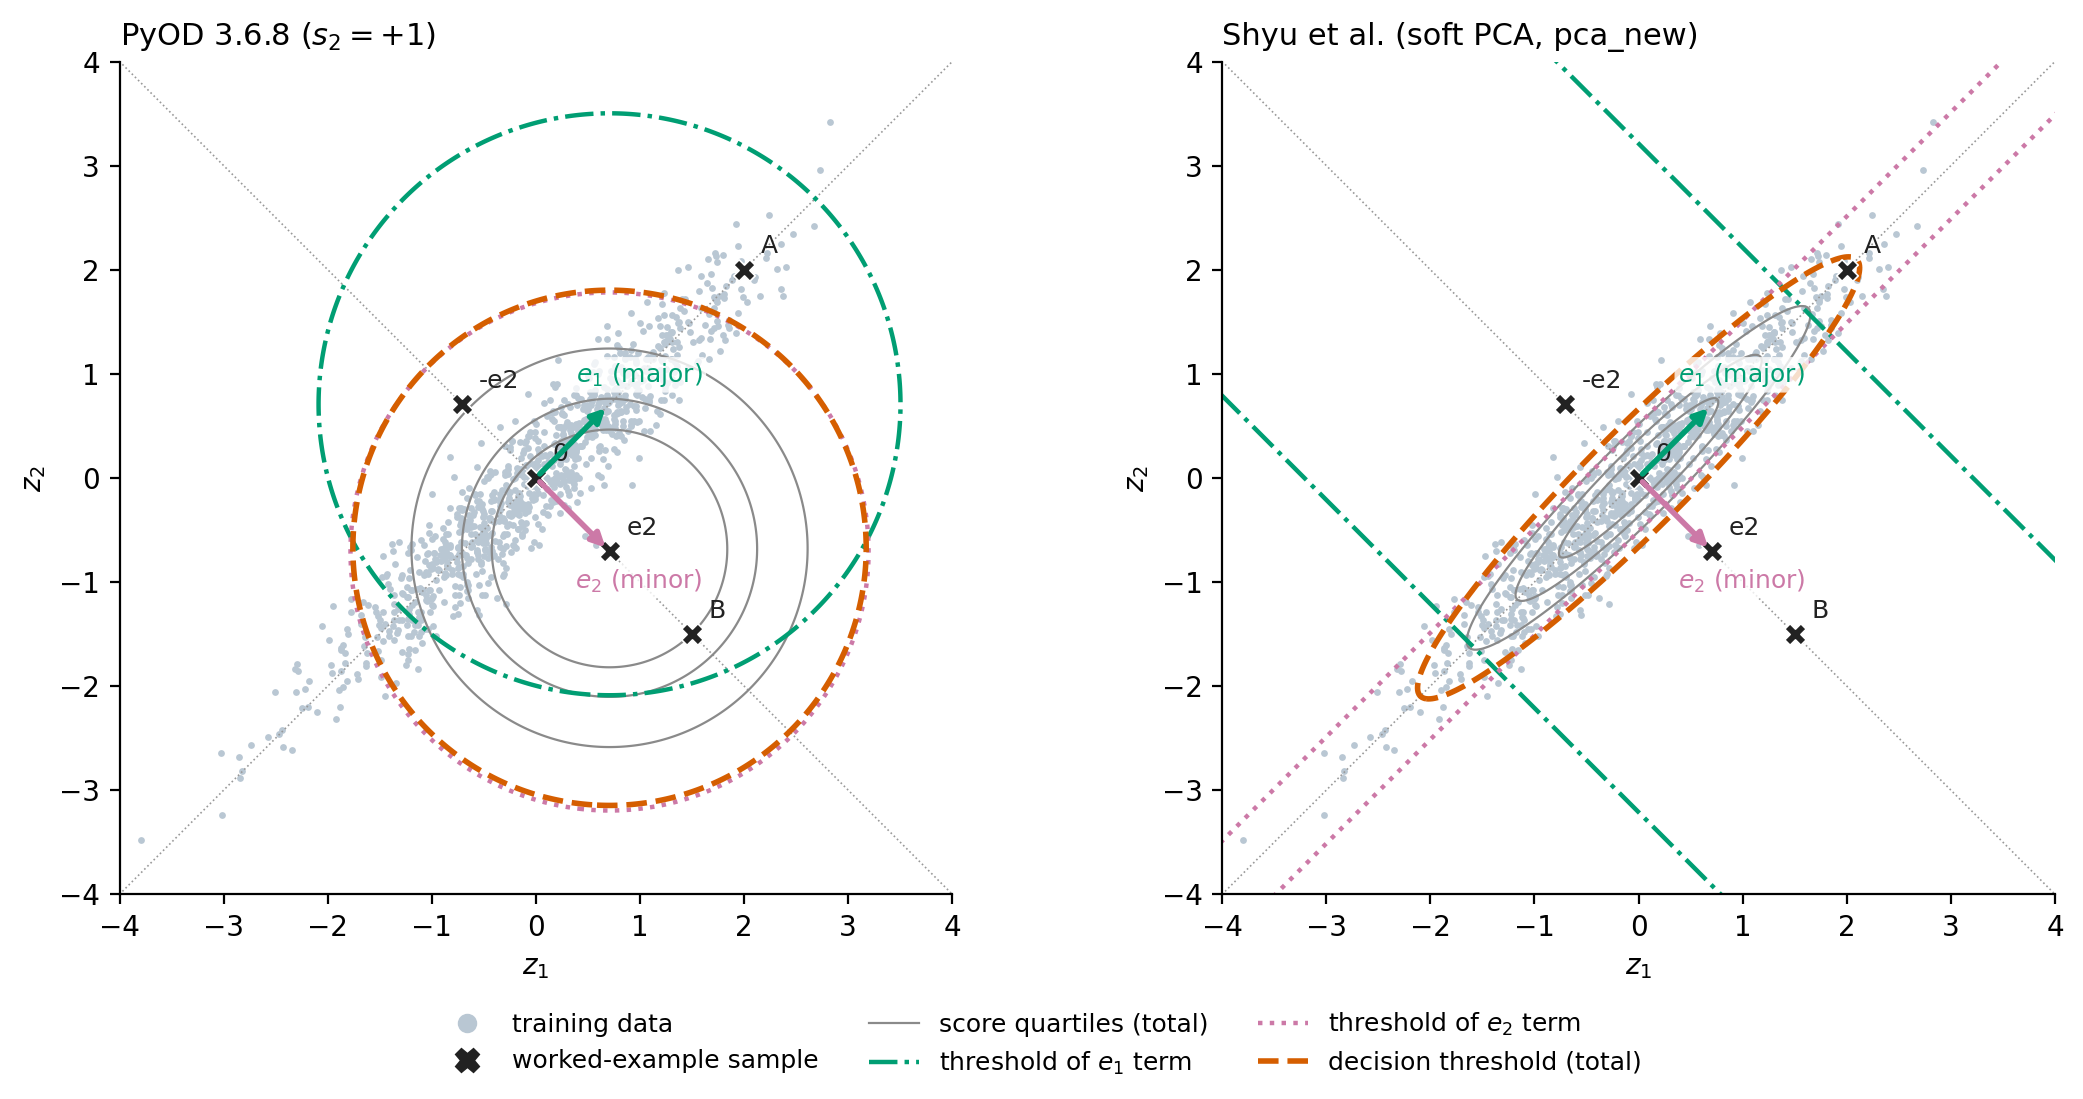
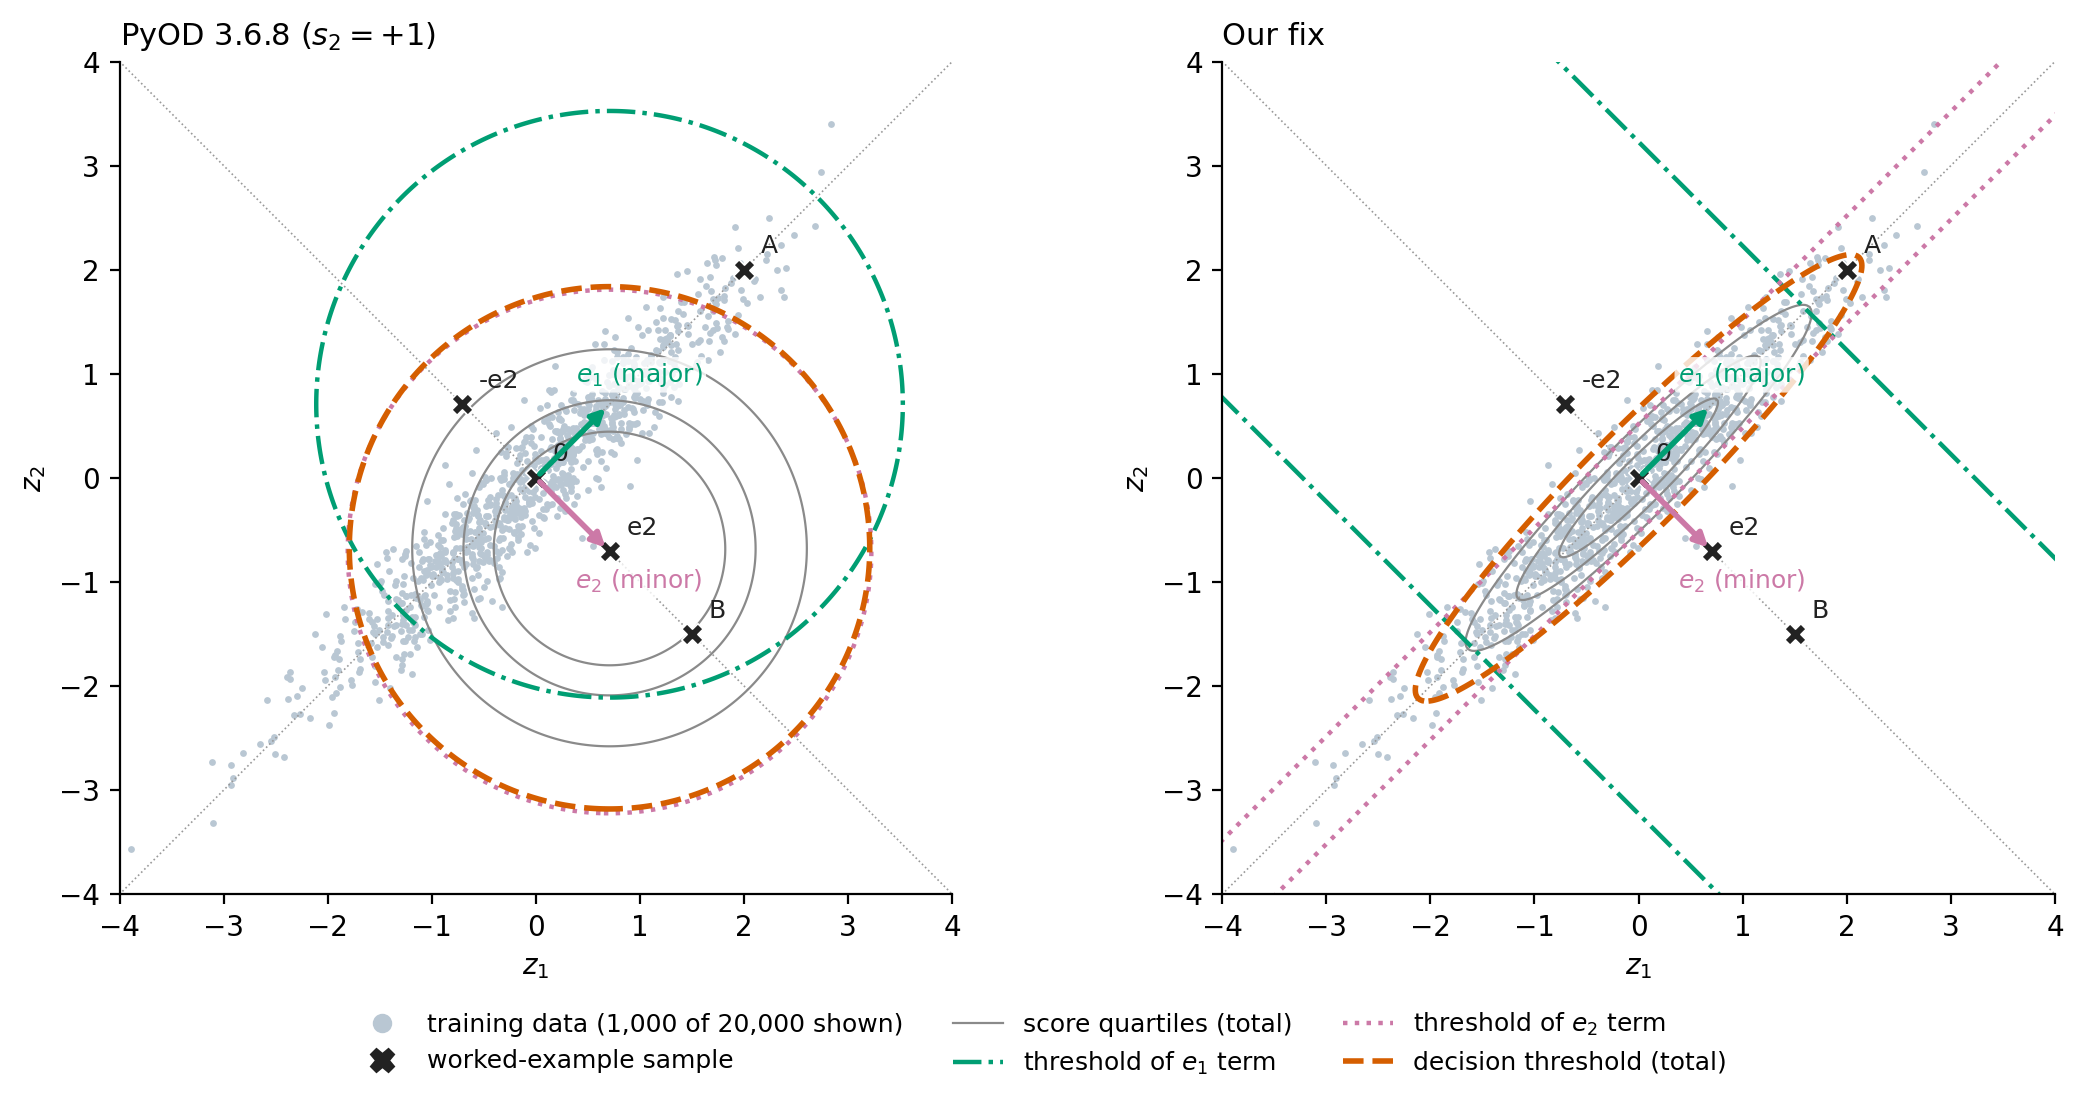
uses correct heading

diff --git a/_posts/2027-04-30-pca-pyod-v2.md b/_posts/2027-04-30-pca-pyod-v2.md
@@ -111,9 +111,9 @@ To see what this score does in practice, we first apply it to a small example.
 
 ### A short example
 
-Consider $$p = 2$$ standardized features with correlation $$\rho = 0.95$$, so that $$\lambda_1 = 1.95$$, $$\mathbf{e}_1 = \tfrac{1}{\sqrt 2}(1, 1)$$ and $$\lambda_2 = 0.05$$, $$\mathbf{e}_2 = \tfrac{1}{\sqrt 2}(1, -1)$$. In the PCC, $$q = r = 1$$. We score a few observations with the PCC and with PyOD under both signs of $$\mathbf{e}_2$$:
+Consider $$p = 2$$ standardized features with correlation $$\rho = 0.95$$, so that $$\lambda_1 = 1.95$$, $$\mathbf{e}_1 = \tfrac{1}{\sqrt 2}(1, 1)$$ and $$\lambda_2 = 0.05$$, $$\mathbf{e}_2 = \tfrac{1}{\sqrt 2}(1, -1)$$. In the PCC, $$q = r = 1$$. We score a few observations with PyOD 3.6.8 under both signs of $$\mathbf{e}_2$$ and with our fix:
 
-| Observation | Description | PyOD, $$s_2 = +1$$ | PyOD, $$s_2 = -1$$ | PCC ($$T_{\text{major}} + T_{\text{minor}}$$) |
+| Observation | Description | PyOD, $$s_2 = +1$$ | PyOD, $$s_2 = -1$$ | Our fix |
 |---|---|---|---|---|
 | $$0$$ | training mean | 41.03 | 41.03 | 0.00 |
 | $$A = (2, 2)$$ | follows the correlation | 121.88 | 121.88 | 4.10 |
